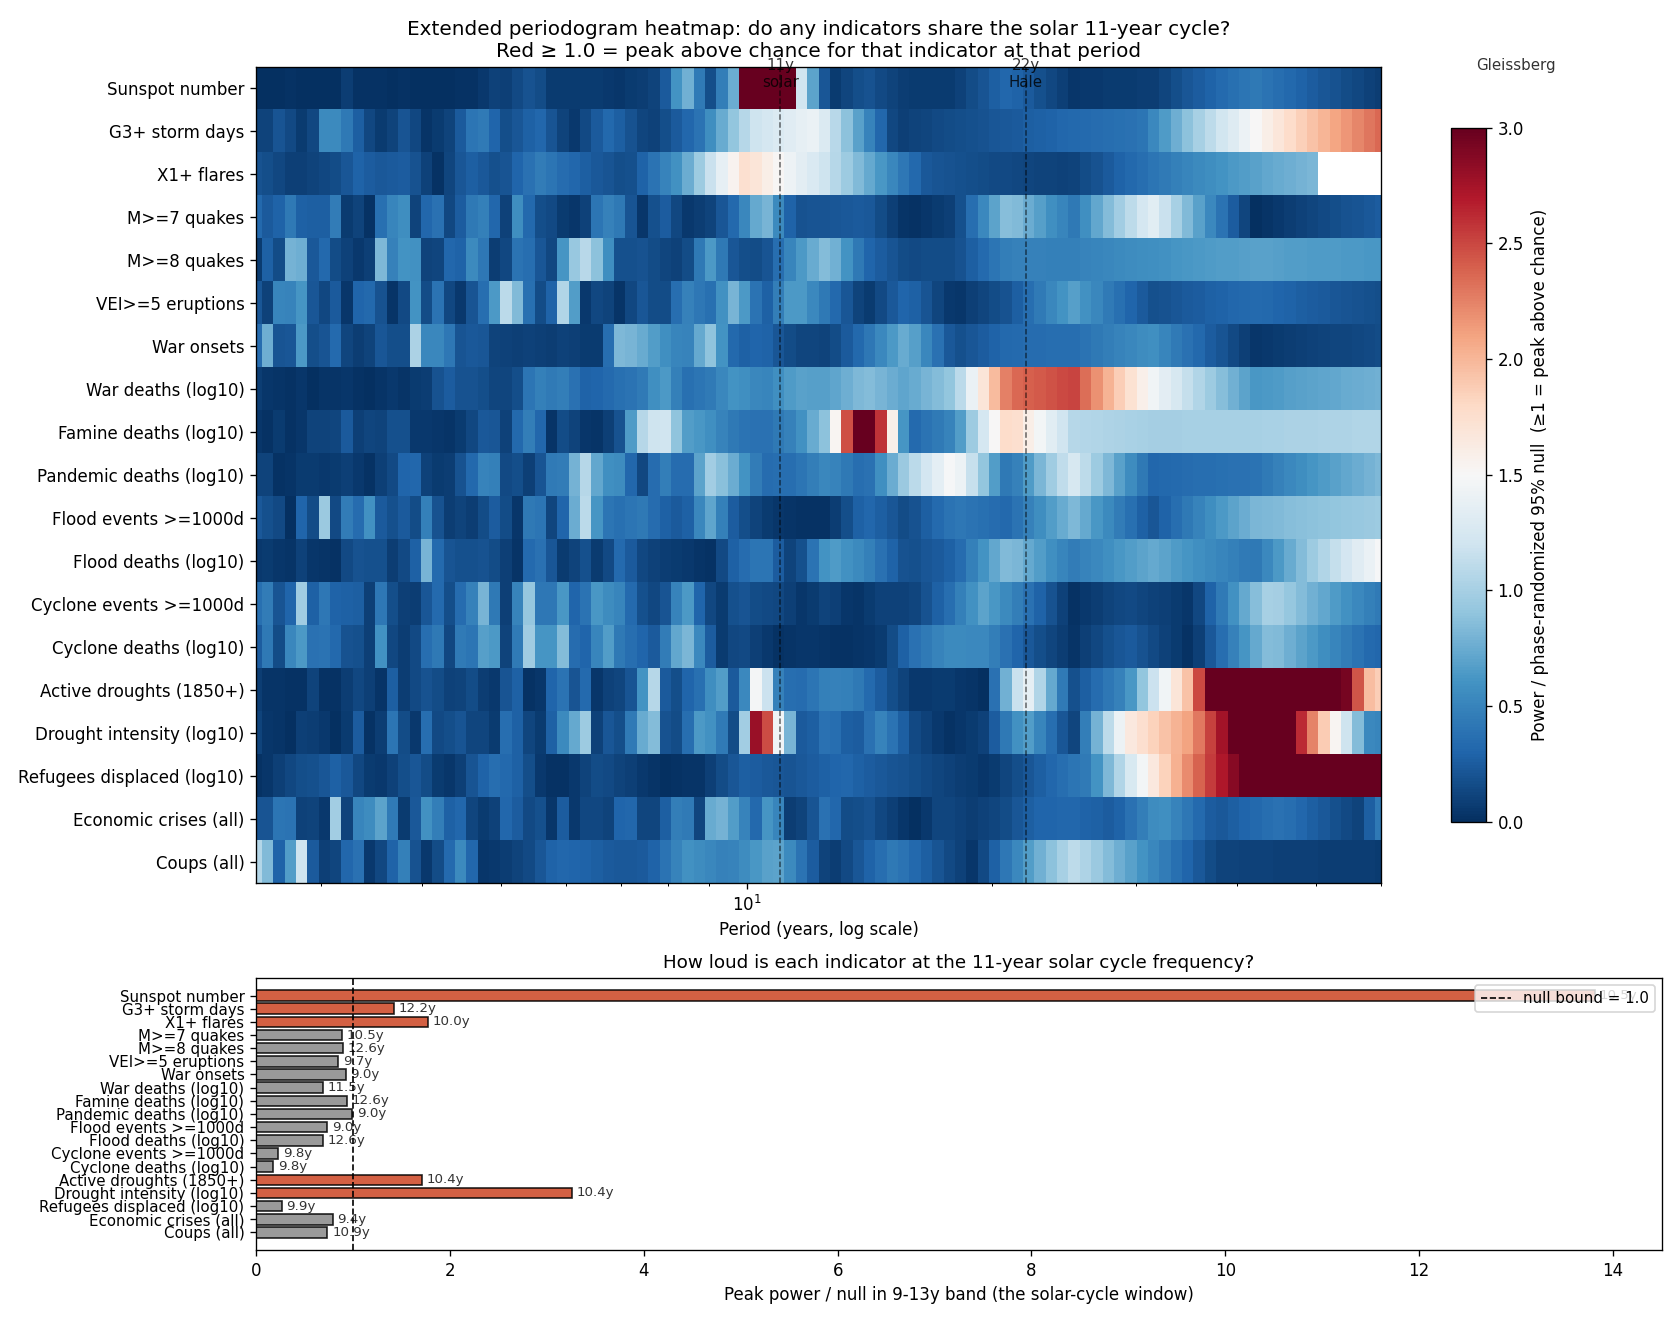
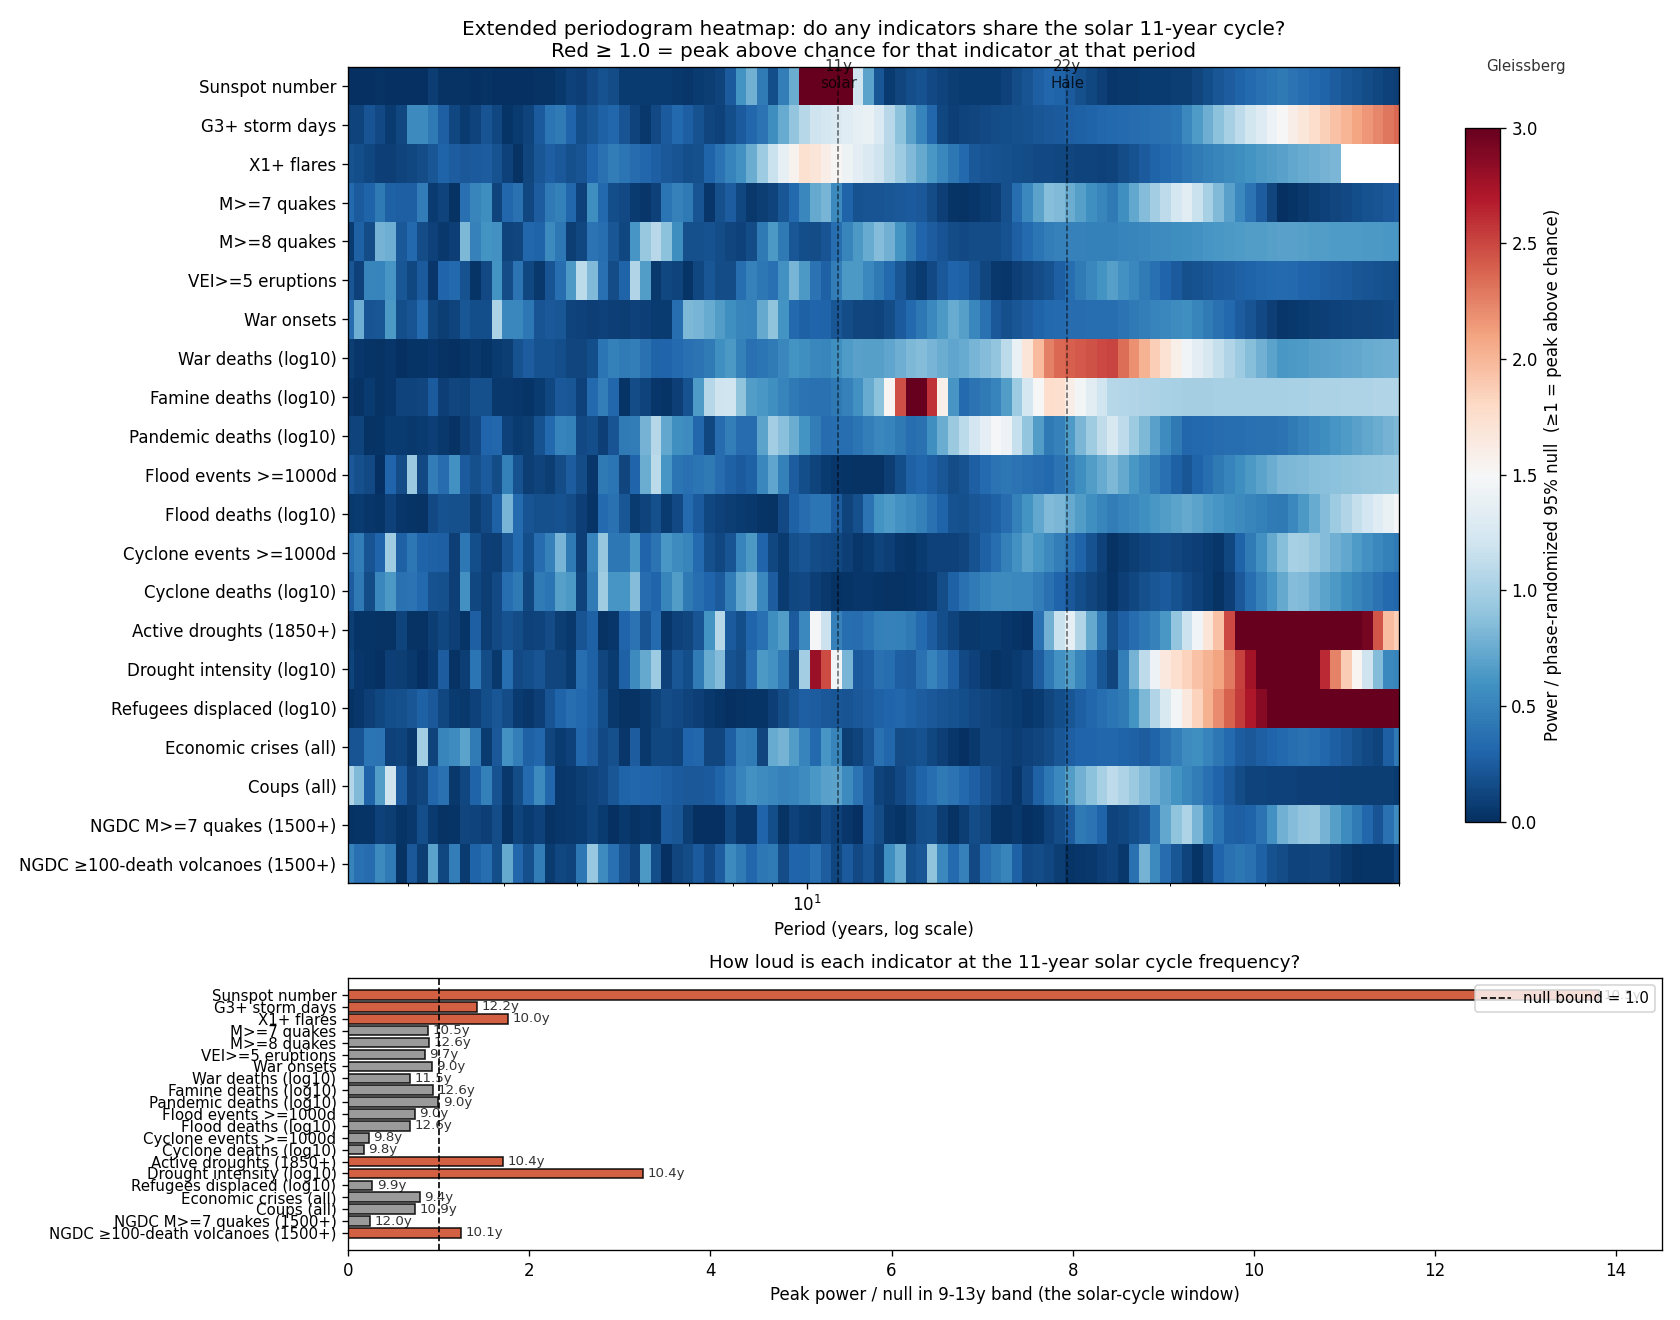
Thread NGDC canonical data through periodogram + pattern_analysis; add dashboard composite
- periodogram_extended.py: add NGDC M>=7 quakes (1500+) and NGDC >=100-death volcanoes (1500+) as new long-span geo indicators. NGDC volcanoes show 1.24x null at 10.1y (modest 11y peak); NGDC quakes 1500+ flat at 11y as expected.
- pattern_analysis.py: add the same two indicators to load_indicator() so birth-pains pattern test (acceleration + shrinking gaps + clustering) runs on the canonical long-span catalogs. NGDC M>=7 1500+ ACCELERATING+CLUSTERED across 1157 events.
- dashboard.py (new): builds figures/32_dashboard.png — a 3x2 composite of 6 headline figures (cross-correlation matrix, trends, contractions, periodogram, wavelet coherence, wars-split) with master heading, per-panel captions, and one-paragraph footer summary. One shareable image instead of asking readers to traverse the README.

diff --git a/dashboard.py b/dashboard.py
@@ -1,0 +1,83 @@
+"""
+Build a single composite headline image showing 6 key figures from the analysis.
+
+Combines figures 18, 19, 22, 23, 25, 27 into a 3×2 grid you can share
+without anyone having to read the README. Each panel keeps its original
+title; the composite adds a master heading and a one-paragraph summary at
+the bottom.
+
+Reads existing PNG figures from figures/ and writes figures/32_dashboard.png.
+"""
+import argparse
+from pathlib import Path
+
+import matplotlib.pyplot as plt
+from matplotlib.image import imread
+
+
+def main():
+    ap = argparse.ArgumentParser(description=__doc__)
+    ap.add_argument("--figures-dir", default="figures")
+    ap.add_argument("--out", default="figures/32_dashboard.png")
+    args = ap.parse_args()
+    figs_dir = Path(args.figures_dir)
+
+    panels = [
+        ("18_cross_correlation_matrix.png",
+         "Cross-correlation matrix",
+         "Only wars × famines (+0.43) survives FDR. Everything else is noise."),
+        ("19_trends_meta_comparison.png",
+         "Trends per indicator",
+         "Cyclones/pandemics/quakes rising; wars/volcanoes flat; floods/famines lean down."),
+        ("22_contractions.png",
+         "Contractions in time",
+         "Six multi-year clusters. 2019–25 is the longest (7yr) and most intense."),
+        ("23_periodogram_extended.png",
+         "Periodogram (11-yr solar cycle hunt)",
+         "Only solar indicators + droughts carry an 11y peak. Everything else is flat."),
+        ("25_wavelet_coherence_wars_famines.png",
+         "Wars × famines coupling over time",
+         "Strongest pre-WWII (0.6), weakest in Cold War (0.17), recovering post-1990."),
+        ("27_wars_split_ethnos_basileia.png",
+         "Wars split: ethnos vs basileia",
+         "Intrastate (ethnos) rising; interstate (basileia) flat. Matches Mt 24:7 doubling."),
+    ]
+
+    fig = plt.figure(figsize=(20, 26))
+    fig.suptitle("Correlations project — headline dashboard\n"
+                  "Disasters, wars, famines, pestilences, signs — pattern analysis across 10 catalogs",
+                  fontsize=18, y=0.995, weight="bold")
+
+    for i, (filename, title, caption) in enumerate(panels):
+        ax = fig.add_subplot(3, 2, i + 1)
+        path = figs_dir / filename
+        if not path.exists():
+            ax.text(0.5, 0.5, f"missing: {filename}", ha="center", va="center")
+            ax.axis("off")
+            continue
+        img = imread(path)
+        ax.imshow(img)
+        ax.axis("off")
+        ax.set_title(f"{i + 1}. {title}", fontsize=13, weight="bold", pad=8)
+        # Caption beneath
+        ax.text(0.5, -0.02, caption, ha="center", va="top",
+                  transform=ax.transAxes, fontsize=10, style="italic", color="#444444",
+                  wrap=True)
+
+    # Master footer text
+    fig.text(0.5, 0.015,
+              "Headline finding: across ~200 statistical tests, only wars↔famines covary above noise (FDR-significant, r = +0.43). "
+              "Wars precede famines (Granger). The Greek doubling holds half-and-half: intrastate (ethnos) is rising; interstate (basileia) is flat. "
+              "Birth-pains pattern (acceleration + shrinking gaps + clustering) is detected for some indicators but never all three together. "
+              "Reproducible scripts + 10 source repos + PREDICTIONS.md for 2030/2035/2040 revisit at github.com/Biblejustin/correlations.",
+              ha="center", va="bottom", fontsize=10, color="#222222",
+              wrap=True, style="italic")
+
+    plt.tight_layout(rect=(0.02, 0.04, 0.98, 0.97))
+    plt.savefig(args.out, dpi=110, bbox_inches="tight")
+    plt.close()
+    print(f"Wrote {args.out}")
+
+
+if __name__ == "__main__":
+    main()

diff --git a/pattern_analysis.py b/pattern_analysis.py
@@ -220,6 +220,20 @@ def load_indicator(name, args):
         years = df["year"].astype(int).tolist()
         yc = df.groupby(df["year"].astype(int)).size().reindex(range(1950, 2026), fill_value=0)
         return years, yc, "1950-2025"
+    if name == "NGDC M>=7 (1500+, canonical long-span)":
+        df = pd.read_csv(args.noaa_quakes_csv)
+        df["eqMagnitude"] = pd.to_numeric(df["eqMagnitude"], errors="coerce")
+        df = df[(df["eqMagnitude"] >= 7) & df["year"].between(1500, 2005)]
+        years = df["year"].astype(int).tolist()
+        yc = df.groupby(df["year"].astype(int)).size().reindex(range(1500, 2006), fill_value=0)
+        return years, yc, "1500-2005"
+    if name == "NGDC ≥100-death volcanoes (1500+)":
+        df = pd.read_csv(args.noaa_volcanoes_csv)
+        df["deathsTotal"] = pd.to_numeric(df["deathsTotal"], errors="coerce").fillna(0)
+        df = df[(df["deathsTotal"] >= 100) & df["year"].between(1500, 2025)]
+        years = df["year"].astype(int).tolist()
+        yc = df.groupby(df["year"].astype(int)).size().reindex(range(1500, 2026), fill_value=0)
+        return years, yc, "1500-2025"
     raise ValueError(name)
 
 
@@ -237,6 +251,8 @@ def main():
     ap.add_argument("--refugees-csv", default="data/refugees.csv")
     ap.add_argument("--economic-csv", default="data/economic_crises.csv")
     ap.add_argument("--coups-csv", default="data/coups.csv")
+    ap.add_argument("--noaa-quakes-csv", default="data/noaa_significant_earthquakes.csv")
+    ap.add_argument("--noaa-volcanoes-csv", default="data/noaa_volcanic_events.csv")
     ap.add_argument("--out", default="figures")
     args = ap.parse_args()
     out = Path(args.out); out.mkdir(parents=True, exist_ok=True)
@@ -251,6 +267,8 @@ def main():
         "Major floods (>=1000 deaths)", "Major droughts (>=1M affected)",
         "Major refugee crises (>=1M)", "Severe economic crises",
         "Successful coups",
+        "NGDC M>=7 (1500+, canonical long-span)",
+        "NGDC ≥100-death volcanoes (1500+)",
     ]
 
     results = []

diff --git a/periodogram_extended.py b/periodogram_extended.py
@@ -47,6 +47,8 @@ from correlate_events import (
     load_yearly_refugee_displaced,
     load_yearly_economic_crises,
     load_yearly_coups,
+    load_yearly_noaa_quakes,
+    load_yearly_noaa_volcanic_events,
 )
 
 
@@ -123,6 +125,8 @@ def main():
     ap.add_argument("--refugees-csv", default="data/refugees.csv")
     ap.add_argument("--economic-csv", default="data/economic_crises.csv")
     ap.add_argument("--coups-csv", default="data/coups.csv")
+    ap.add_argument("--noaa-quakes-csv", default="data/noaa_significant_earthquakes.csv")
+    ap.add_argument("--noaa-volcanoes-csv", default="data/noaa_volcanic_events.csv")
     ap.add_argument("--n-boot", type=int, default=1000)
     ap.add_argument("--out", default="figures")
     args = ap.parse_args()
@@ -152,6 +156,9 @@ def main():
         ("Refugees displaced (log10)", np.log10(load_yearly_refugee_displaced(args.refugees_csv, 1947, 2025) + 1), "human"),
         ("Economic crises (all)", load_yearly_economic_crises(args.economic_csv, 1800, 2025), "human"),
         ("Coups (all)", load_yearly_coups(args.coups_csv, 1950, 2025), "human"),
+        # Canonical NGDC extended series — long historical span
+        ("NGDC M>=7 quakes (1500+)", load_yearly_noaa_quakes(args.noaa_quakes_csv, 1500, 2005, mag_min=7.0), "geo"),
+        ("NGDC ≥100-death volcanoes (1500+)", load_yearly_noaa_volcanic_events(args.noaa_volcanoes_csv, 1500, 2025, deaths_min=100), "geo"),
     ]
 
     common_periods = np.logspace(np.log10(2.5), np.log10(60), 100)